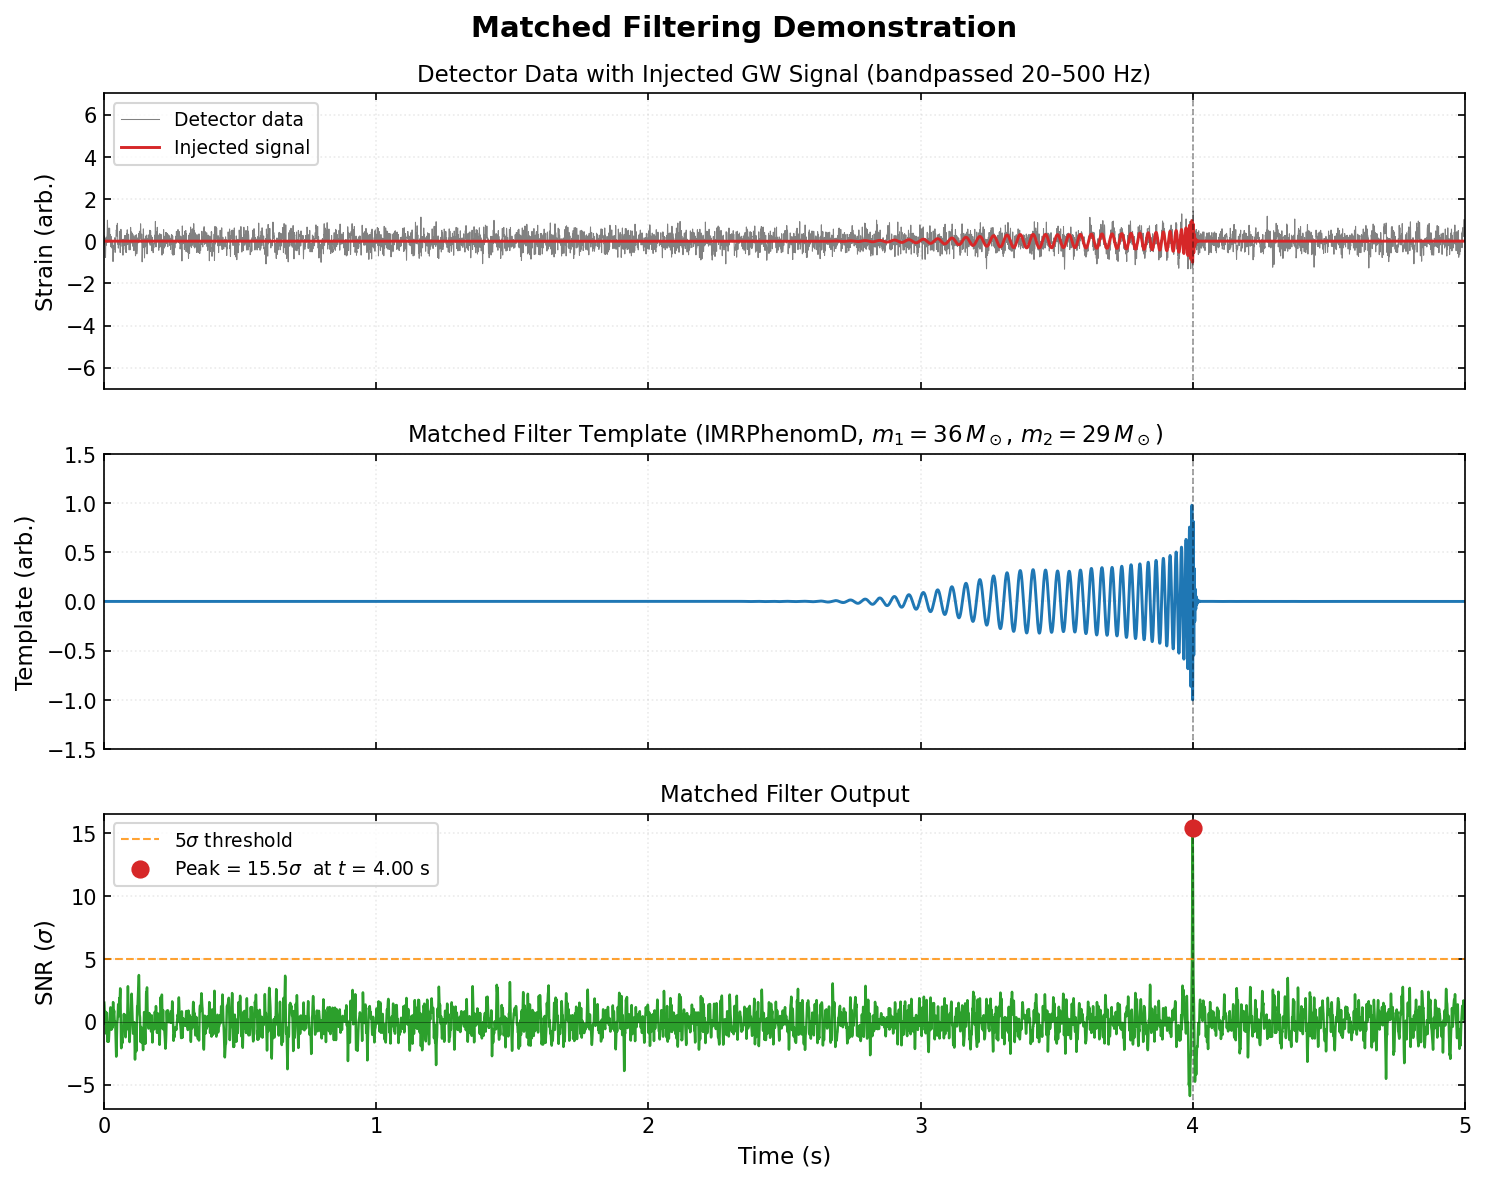
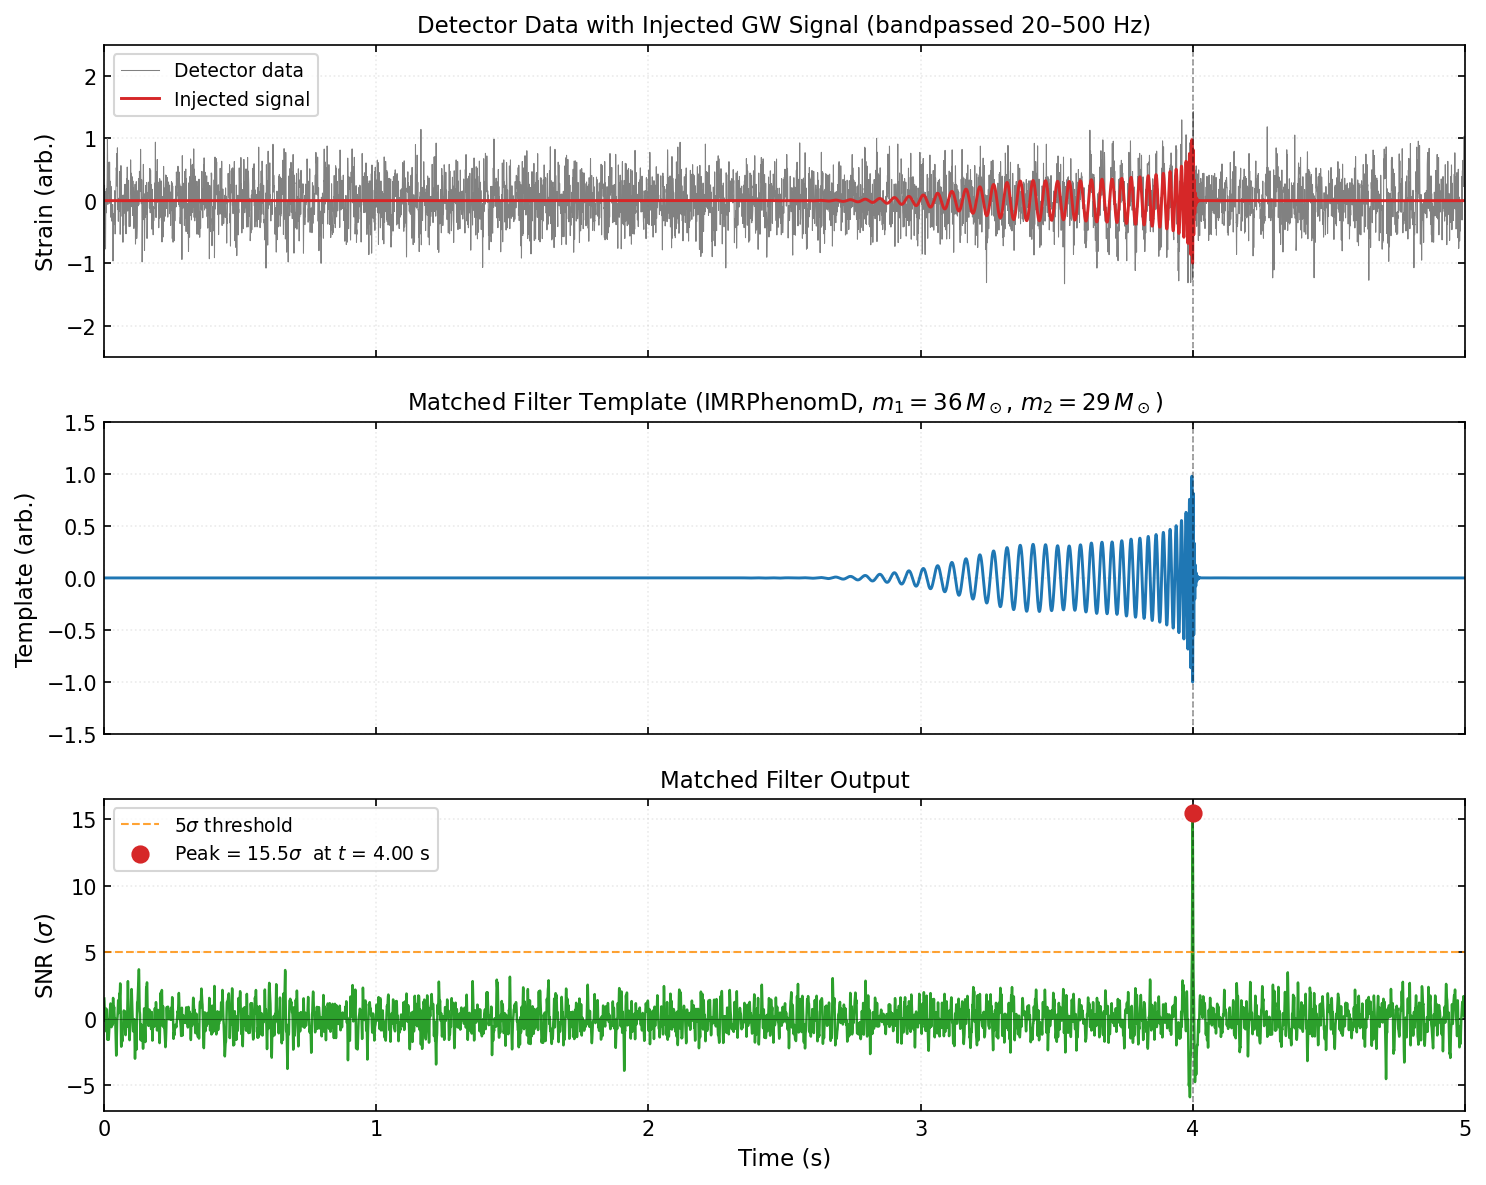
Update figures

diff --git a/chapters/conclusion.tex b/chapters/conclusion.tex
@@ -5,6 +5,71 @@
 \label{conclusion_chapter}
 %%%%%%%%%%%%%%%%%%%%%%%%%%%%%%%%%%%%%%%%%%%%%%%%%%%%%%%%%%%%%%%%%%%%%%%%%%%%%%%%
 
+The work presented in this dissertation introduces two machine learning algorithms --- \aframe and \amplfi --- and documents their development, validation, and real-time deployment as an end-to-end gravitational wave search and parameter estimation pipeline.
+The central demonstration is that machine learning methods can achieve sensitivity competitive with traditional matched-filter searches for compact binary coalescences while reporting alerts at latencies that are orders of magnitude lower.
+Together, \aframe and \amplfi represent the first demonstration of an end-to-end machine learning pipeline for gravitational waves operating in a live observing run.
 
+Beyond these immediate results, this dissertation addresses a question that has remained open since the first applications of machine learning to gravitational-wave detection: whether such methods are mature enough to be trusted in a production environment alongside the established pipelines that have shaped the field.
+Meeting this standard requires more than demonstrating competitive sensitivity in controlled experiments.
+It requires handling the practical demands of continuous operation: data quality variation, non-stationary noise, fault tolerance, and multi-messenger data product generation.
+By designing \aframe and \amplfi around these operational requirements and validating them against matched-filter searches on real observing data, this work provides a template for how machine learning pipelines can be developed and deployed responsibly in gravitational-wave astronomy.
+
+\section{Summary of Contributions}
+
+Chapter~\ref{chap:aframe_methods} introduced \aframe, a convolutional neural network trained to detect compact binary coalescence signals in two-detector strain data from LIGO.
+Rather than evaluating a large template bank as in matched-filter searches, \aframe processes overlapping 1.5-second windows of coincident Hanford and Livingston strain data in real time to produce a scalar detection statistic.
+The key technical contributions include a data augmentation strategy that enables the network to generalize to a wide range of signal morphologies and noise conditions, and an efficient GPU-based inference deployment capable of analyzing data continuously.
+To enable direct comparison with matched-filter searches, we developed a sensitive volume metric that places ML and traditional pipelines on equal footing.
+Evaluated on a test set drawn from the third observing run, \aframe identified 8 of 9 GWTC-3 astrophysical candidates at false alarm rates below 1 per year --- the minimum achievable given the test set duration --- while reporting zero non-catalog events at false alarm rates below 5 per month.
+
+Chapter~\ref{chap:o3_catalog} presented the results of applying \aframe to the full O3 data set as an end-to-end search.
+This analysis recovered 38 events from GWTC-3 with $p_\mathrm{astro} > 0.5$, together with 2 additional candidates from the IAS catalog and 1 from the OGC catalog --- a count comparable to that reported by individual matched-filter pipelines operating on the same data.
+Of the 15 GWTC-3 candidates not recovered by \aframe, 5 had secondary masses below $5\,M_\odot$ and fell outside the training prior; the remaining 10 had network matched-filter SNRs below 12.6.
+Parameter estimation was also performed on the IAS and OGC candidates using Bilby with the IMRPhenomXPHM waveform approximant, yielding posteriors broadly consistent with those reported by the respective catalogs.
+The O3 search demonstrated competitive sensitivity to high-mass binary black hole mergers while also revealing the current model's limitations: reduced sensitivity at lower component masses, and a requirement for simultaneous operation of both LIGO detectors.
+
+Chapter~\ref{chap:amplfi_methods} introduced \amplfi, a likelihood-free inference algorithm for rapid parameter estimation.
+\amplfi uses a normalizing flow trained to estimate posterior distributions over source parameters --- including chirp mass, mass ratio, and sky location --- conditioned on strain data from both LIGO detectors.
+The algorithm produces posterior samples in under two seconds from the time of a detection trigger, achieving an end-to-end latency of approximately six seconds including detection, significance evaluation, parameter estimation, and sky map generation.
+A major technical contribution is the implementation of compact binary waveform generation directly on GPU, enabling on-the-fly waveform simulation during training at negligible computational cost.
+\amplfi was designed for co-deployment with \aframe on shared GPU hardware, minimizing communication overhead and enabling the full pipeline latency demonstrated here.
+
+Chapter~\ref{chap:amplfi_results} validated \amplfi against established methods using data from O3.
+Comparisons with BAYESTAR, the standard low-latency sky localization algorithm, show that \amplfi produces sky maps of comparable quality for well-localized events.
+Comparisons of recovered source parameter posteriors with those from GWTC-3 demonstrate broad consistency, including cases where posterior support extends near or beyond the boundaries of the training prior.
+
+Chapter~\ref{chap:online} described the integration of \aframe and \amplfi into a production pipeline and the deployment of this pipeline during the final segment of LIGO's fourth observing run, O4c, from August 28 to November 25, 2025.
+Of the 24 compact binary events for which data from both Hanford and Livingston were available, \aframe detected 23 (96\%).
+The single non-detection was due to a computing infrastructure failure that prevented data delivery to the pipeline, rather than a limitation of the algorithm.
+For 9 events where \aframe was the preferred pipeline at the time of the preliminary alert, \amplfi sky maps were distributed to the astronomical community via the General Coordinates Network.
+The deployment relied on purpose-built software infrastructure, including the \mlgw library (Appendix~\ref{app:ml4gw}) for GPU-accelerated gravitational-wave data processing and a multiprocessing architecture that generates sky maps, source classifications, and significance estimates in parallel.
+This deployment demonstrates that machine learning methods are mature enough for production use in gravitational wave astronomy and can contribute alongside traditional matched-filter pipelines in an operational setting.
+
+\section{Outlook}
+
+Several extensions of this work are already underway; others represent longer-horizon priorities.
+
+On the detection side, the most significant limitation of the current \aframe implementation is the requirement that both LIGO Hanford and Livingston be operating simultaneously.
+Development of multi-detector configurations --- supporting arbitrary detector subsets including three-detector, single-detector, and heterogeneous network modes --- will increase the fraction of observing time for which \aframe can contribute.
+An extension of the training mass distribution to lower-mass systems, including binary neutron star and neutron star--black hole mergers, will make the search relevant for the events most likely to have electromagnetic counterparts and yield the most multi-messenger science.
+Extending \aframe to BNS systems poses a fundamental signal-duration challenge: a 1.4+1.4\,$M_\odot$ BNS inspiral spends 60--120 seconds in the LIGO sensitive band, far exceeding the 1.5-second input windows on which the current model operates.
+One experimental approach under investigation evaluates each input window in the frequency domain against a log-normally spaced grid of chirp mass hypotheses --- approximately 100 templates per window --- using heterodyning to shift each template to baseband, where the slowly evolving signal envelope can be matched efficiently with a compact inner product.
+Whether this approach can be made computationally cheap enough for real-time operation remains an open question, but initial experiments are encouraging.
+
+On the parameter estimation side, extending \amplfi to binary neutron star and neutron star--black hole systems is a natural next step given the scientific priority of multi-messenger follow-up.
+The longer signal durations and richer parameter spaces of these systems will require dedicated training datasets and may motivate architectural changes to the normalizing flow.
+A heterodyning-based approach analogous to that described above for detection is also being explored on the parameter estimation side, compressing long BNS signal representations into a form compatible with \amplfi's existing input window; this work is at an earlier stage than the detection-side development.
+Future versions may also incorporate spin-precessing waveform models beyond IMRPhenomD and could support burst signal morphologies, enabling collaboration with unmodeled event search pipelines.
+
+On the deployment side, integrating a distributed task orchestration framework such as Ray or Celery will improve fault tolerance by allowing failed sub-tasks to be retried independently without restarting the entire pipeline.
+Several latency reductions have already been made following O4c.
+The post-resampling crop was tightened from a conservative 1-second buffer to one based on the filter's transient length (typically less than 0.2 seconds), recovering resampling latency without modifying the underlying filter.
+Also in active development is an auxiliary regression head for \aframe to directly output a merger time estimate, which would eliminate the top-hat integration step used to locate the coalescence time.
+Longer-horizon improvements include replacing the current symmetric (zero-phase) whitening filter with a causal (minimum-phase) implementation to eliminate the latency introduced by the whitening step, and extending the detector network to include Virgo, which would broaden sky localization coverage for three-detector events.
+Infrastructure improvements outside the pipeline will also reduce latency: the next-generation data delivery (NGDD) system, currently in development for future observing runs, will deliver data in 1/16-second chunks rather than 1-second frames, reducing the discrete packet latency, and will deliver each chunk immediately rather than waiting for all auxiliary channels to be ready, reducing the data preparation and transfer latency.
+
+Looking further ahead, the next generation of ground-based detectors --- Cosmic Explorer and the Einstein Telescope --- are expected to detect hundreds of thousands of compact binary mergers per year at far greater distances than current instruments can reach.
+At those event rates, machine learning methods will likely be essential infrastructure rather than merely an alternative to matched filtering.
+The algorithms, software frameworks, and operational experience developed in this dissertation provide a foundation for meeting that challenge.
 
 %%%%%%%%%%%%%%%%%%%%%%%%%%%%%%%%%%%%%%%%%%%%%%%%%%%%%%%%%%%%%%%%%%%%%%%%%%%%%%%%

diff --git a/chapters/aframe_methods.tex b/chapters/aframe_methods.tex
@@ -453,7 +453,7 @@ Sensitive volume measures the volume over which some astrophysical population of
 Sensitive volume was used to measure the sensitivity of search pipelines in GWTC-3. 
 This provides an astrophysically meaningful benchmark to compare the performance of \aframe to the performance of traditional searches. 
 More details on the sensitive volume calculation can be found in Sec.~\ref{aframe_meth_sec:sv-calc}. 
-Fig.~\ref{aframe_meth_fig:sensitivity} compares \aframe's sensitive volume as a function of FAR with the sensitivity of the MBTA~\cite{Aubin_2021}, PyCBC~\cite{Dal_Canton_2021}, GstLAL~\cite{ewing2023performance, Tsukada_2023} and cWB~\cite{DRAGO2021100678} searches as reported in GWTC-3~\cite{Abbott_2023}. 
+Fig.~\ref{aframe_meth_fig:sensitivity} compares \aframe's sensitive volume as a function of FAR with the sensitivity of the MBTA~\cite{Aubin_2021}, PyCBC~\cite{Dal_Canton_2021}, GstLAL~\cite{Ewing:2023qqe, Tsukada_2023} and cWB~\cite{DRAGO2021100678} searches as reported in GWTC-3~\cite{Abbott_2023}. 
 We note that the template banks used by MBTA, GstLAL, and PyCBC-Broad in the GWTC-3 analysis contain waveforms outside of the 5--100 M$_{\odot}$ range searched by \aframe. 
 In principle, these searches could increase their sensitivities in the 5--100 M$_{\odot}$ range by removing these templates. 
 This is evident when comparing the performance of PyCBC-BBH and PyCBC-Broad in Fig.~\ref{aframe_meth_fig:sensitivity}.

diff --git a/chapters/o3_catalog.tex b/chapters/o3_catalog.tex
@@ -208,7 +208,7 @@ In the rest of this section, we make comparisons of \aframe's search results wit
 We note that, when making these comparisons, we include candidates that may lie outside the training prior (Table~\ref{o3cat_tab:priors}) used for this search.
 
 \textbf{\emph{GWTC-3}} 70 candidates were reported in GWTC-3 from O3 with Hanford and Livingston data available. 
-Four matched-filtering pipelines, GstLAL~\cite{ewing2023performance, Tsukada_2023}, MBTA~\cite{Aubin_2021}, PyCBC-broad, PyCBC-BBH~\cite{Dal_Canton_2021}, and one minimally modeled pipeline, cWB~\cite{DRAGO2021100678}, reported candidates. 
+Four matched-filtering pipelines, GstLAL~\cite{Ewing:2023qqe, Tsukada_2023}, MBTA~\cite{Aubin_2021}, PyCBC-broad, PyCBC-BBH~\cite{Dal_Canton_2021}, and one minimally modeled pipeline, cWB~\cite{DRAGO2021100678}, reported candidates. 
 The criterion for inclusion in GWTC-3 was that \textit{any} of the five search pipelines reported a $p_{\mathrm{astro}} > 0.5$. 
 Therefore, it is expected that \aframe identifies fewer events with $p_{\mathrm{astro}} > 0.5$ than the union of all search pipelines, which is what we find. 
 Table~\ref{o3cat_tab:significant} contains 39 of the 70 Hanford/Livingston events reported in GWTC-3 that were also identified by \aframe as significant. 